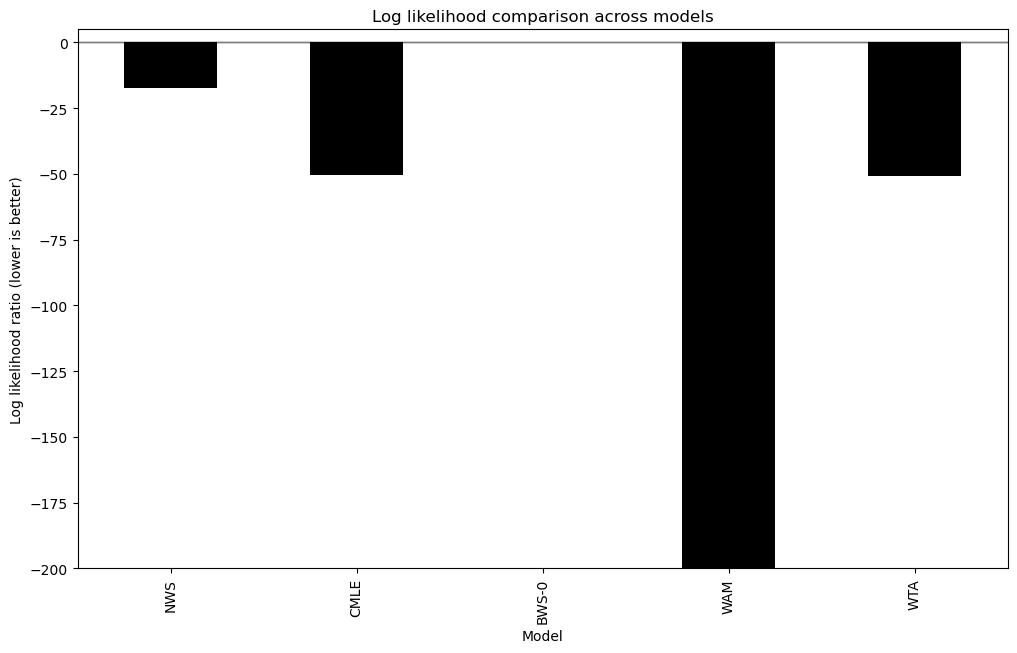
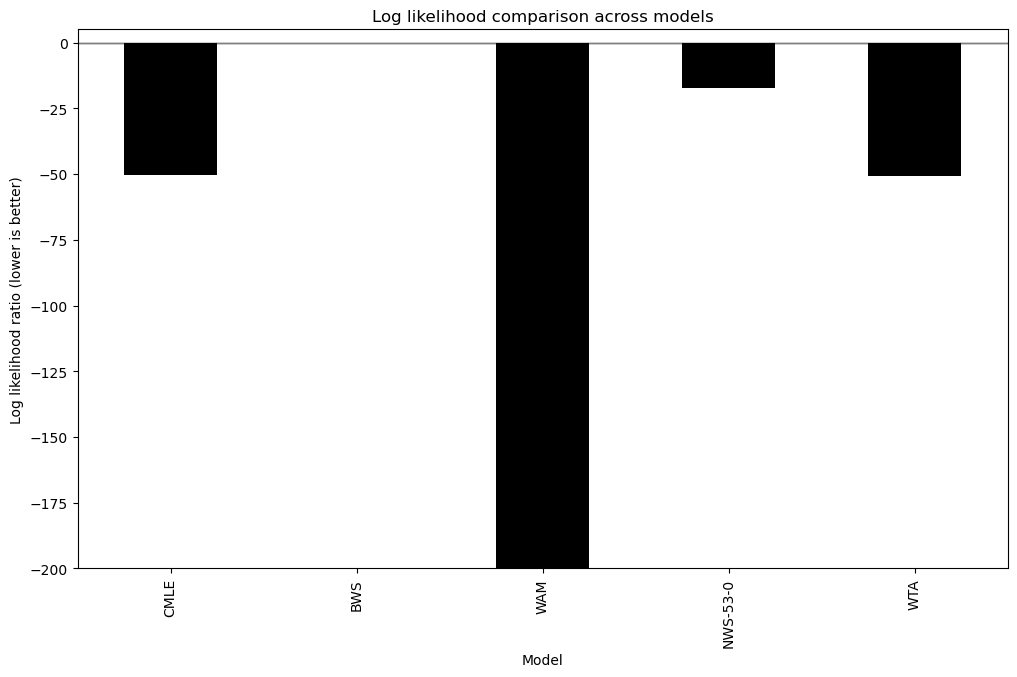
Author: R. Mitchell Changes: Updated the evaluation code to include the Bayesian Information Criterion as well as the Akaike Information Criterion. Result dataframe now includes relative versions of both which are used for comparison.

diff --git a/occ_sim/model_evaluation.py b/occ_sim/model_evaluation.py
@@ -342,6 +342,7 @@ def cross_model_evaluation():
     binwidth = 360 / nbins
 
     data = pd.read_csv("data/changes_full.csv")
+
     conditions = list(data.columns)
 
     files = [
@@ -366,7 +367,9 @@ def cross_model_evaluation():
     evaluation_df = pd.DataFrame(columns=conditions, index=norm_dist_dict.keys())
 
     # Associate # of parameters for AIC computation to a filename key
+    # AIC paramter counts are reused to compute the BIC
     aic_params = {k:None for k in evaluation_df.index}
+    total_n = 0
     for k in list(aic_params.keys()):
         if "BWS" in k:
             aic_params[k] = 2
@@ -376,6 +379,7 @@ def cross_model_evaluation():
             aic_params[k] = 0
 
     for model in evaluation_df.index:
+        total_n = 0 # All models use same data so we can take the last iteration
         for condition in evaluation_df.columns:
             # Probability using P(M|d) prop_to P(d|M)P(M)
             # Assuming even priors (poor assumption):
@@ -395,22 +399,28 @@ def cross_model_evaluation():
             data_prob = data_probs.sum(axis='index')
 
             evaluation_df[condition][model] = data_prob
+            total_n += len(idxed_data)
 
 
     evaluation_df["sum"] = evaluation_df.sum(axis='columns')
+    print("Total n: {}".format(total_n))
 
     ml = evaluation_df["sum"].max()
     evaluation_df["norm"] = evaluation_df["sum"].subtract(ml)
-    print(evaluation_df[evaluation_df["norm"] == 1])
 
     # Compute AIC and include in the evaluation_df
     # AIC = 2k - 2ln(Likelihood)
-    print(evaluation_df)
+    # BIC = k*ln(total_n) - 2*ln(Likelihood)
     evaluation_df["aic"] = None
+    evaluation_df["bic"] = None
     for m in aic_params.keys():
         p = aic_params[m]
         evaluation_df["aic"][m] = 2*p - 2*evaluation_df["sum"][m]
+        evaluation_df["bic"][m] = p*np.log(total_n) - 2*evaluation_df["sum"][m]
 
+    # Include relative measures in the result df; for aic/bic, lower is better
+    evaluation_df["r_aic"] = evaluation_df["aic"].div(min(evaluation_df["aic"]))
+    evaluation_df["r_bic"] = evaluation_df["bic"].div(min(evaluation_df["bic"]))
     evaluation_df.to_csv("cmedf.csv")
 
     fig = plt.figure(figsize=(12,7))
@@ -429,7 +439,7 @@ def cross_model_evaluation():
     fill_y = np.zeros(len(fill_x))
     plt.fill_between(fill_x, fill_y, color="grey")
     plt.savefig("../latex/img/cme.png", bbox_inches="tight")
-    plt.show()
+    # plt.show()
     return evaluation_df
 
 def bws_param_evaluation():
@@ -547,8 +557,8 @@ if __name__ == "__main__":
     using population_generation.py, then the evaluation results may be slightly
     different. The overall picture however, should remain the same.
     """
-    bws_variance_evaluation()
+#    bws_variance_evaluation()
 #    bws_param_evaluation()
 #    bws_variance_and_slope_evaluation()
-#    cross_model_evaluation()
+    cross_model_evaluation()
 #    print(nws_param_evaluation())
